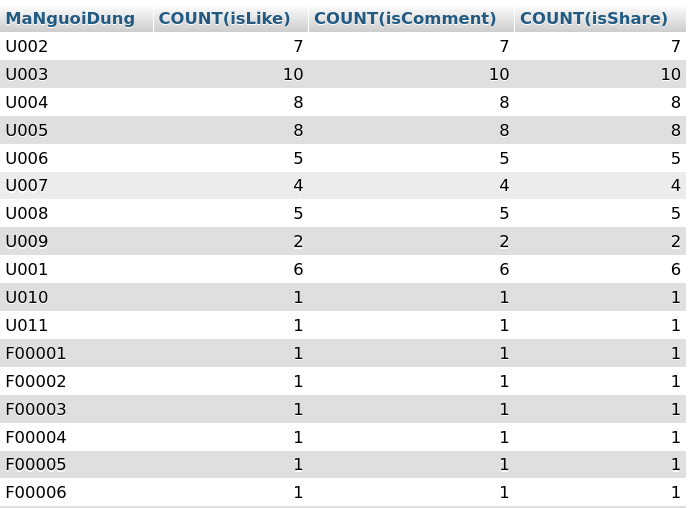
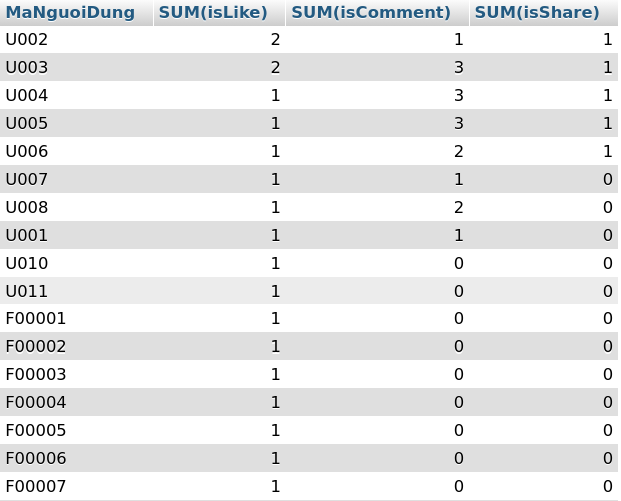
fix: query 3

Changed region(s): [[0.0, 0.0, 1.0, 0.5389], [0.0, 0.5689, 1.0, 1.0]]

diff --git a/README.md b/README.md
@@ -164,7 +164,7 @@ WHERE BL.MaBaiViet = 'BV505';
 
 ### 3. Group By: Thống kê tổng số lượt tương tác (Like + Comment + Share) của từng người dùng trong tuần.
 ```sql
-SELECT ND.MaNguoiDung, COUNT(isLike), COUNT(isComment), COUNT(isShare)
+SELECT ND.MaNguoiDung, SUM(isLike), SUM(isComment), SUM(isShare)
 FROM NguoiDung ND
 JOIN (
 	SELECT MaNguoiDung , 1 AS isLike, 0 AS isComment, 0 AS isShare
